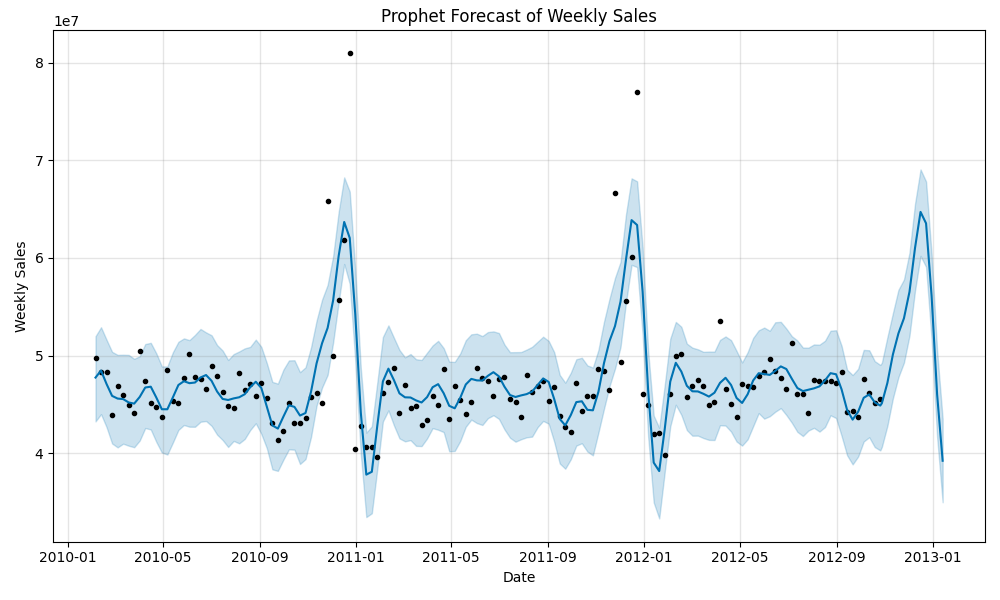
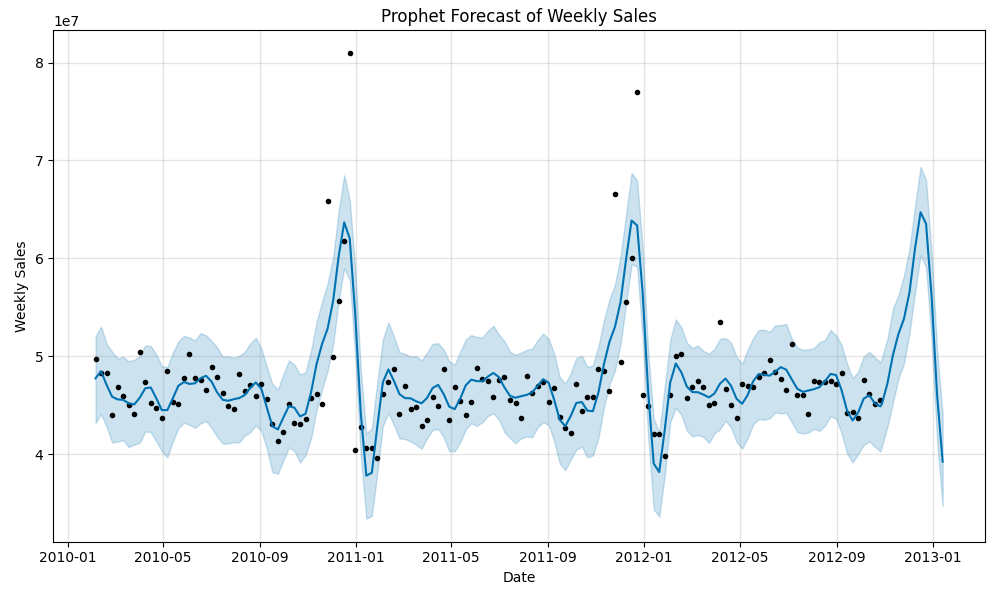
accuracy

diff --git a/notebooks/eda.py b/notebooks/eda.py
@@ -1,4 +1,6 @@
 from prophet import Prophet
+from sklearn.metrics import mean_absolute_error, mean_squared_error
+import numpy as np
 import pandas as pd 
 import matplotlib.pyplot as plt
 
@@ -58,3 +60,16 @@ plt.xlabel('Date')
 plt.ylabel('Weekly Sales')
 plt.savefig('../outputs/prophet_forecast.png')
 plt.show()
+
+test_sales = sales_by_date[sales_by_date.index >= '2012-06-01']
+
+forecast_indexed = forecast.set_index('ds')['yhat']
+predicted = forecast_indexed[test_sales.index]
+
+mae = mean_absolute_error(test_sales, predicted)
+rmse = np.sqrt(mean_squared_error(test_sales, predicted))
+mape = np.mean(np.abs((test_sales - predicted) / test_sales)) * 100
+
+print(f"MAE  : {mae:,.2f}")
+print(f"RMSE : {rmse:,.2f}")
+print(f"MAPE : {mape:.2f}%")